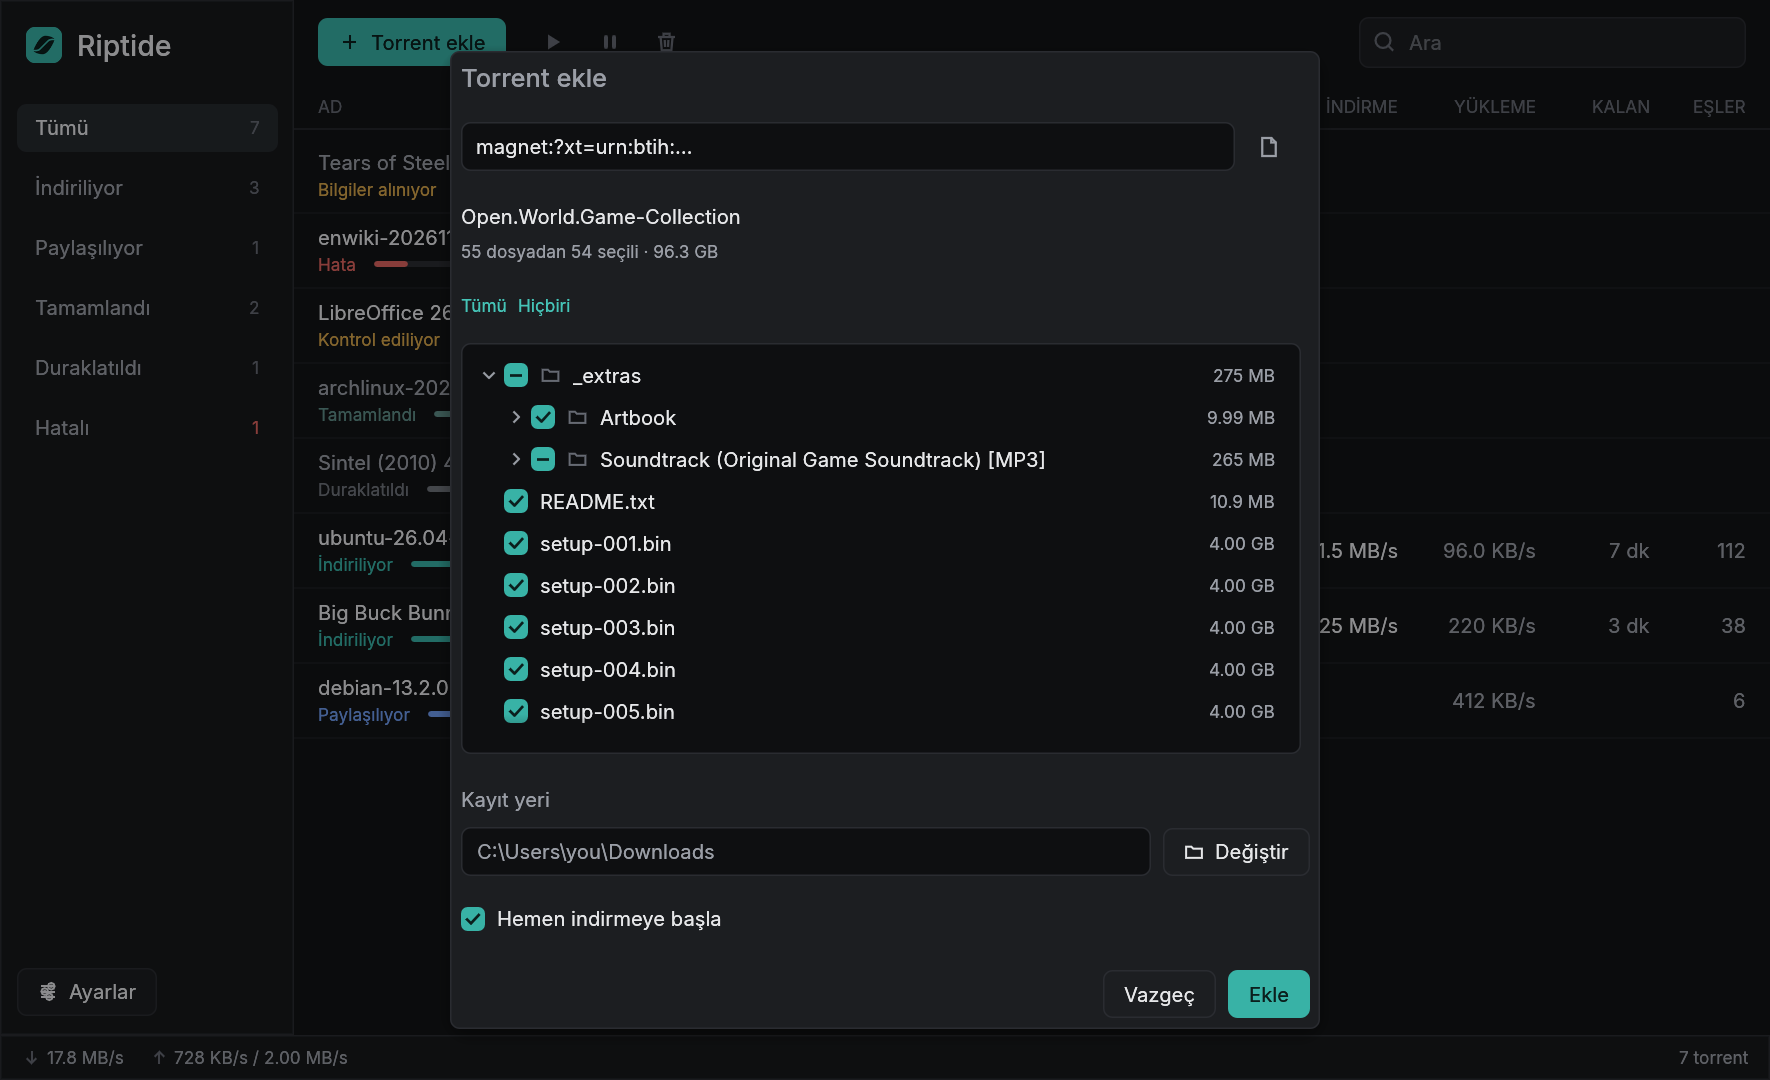
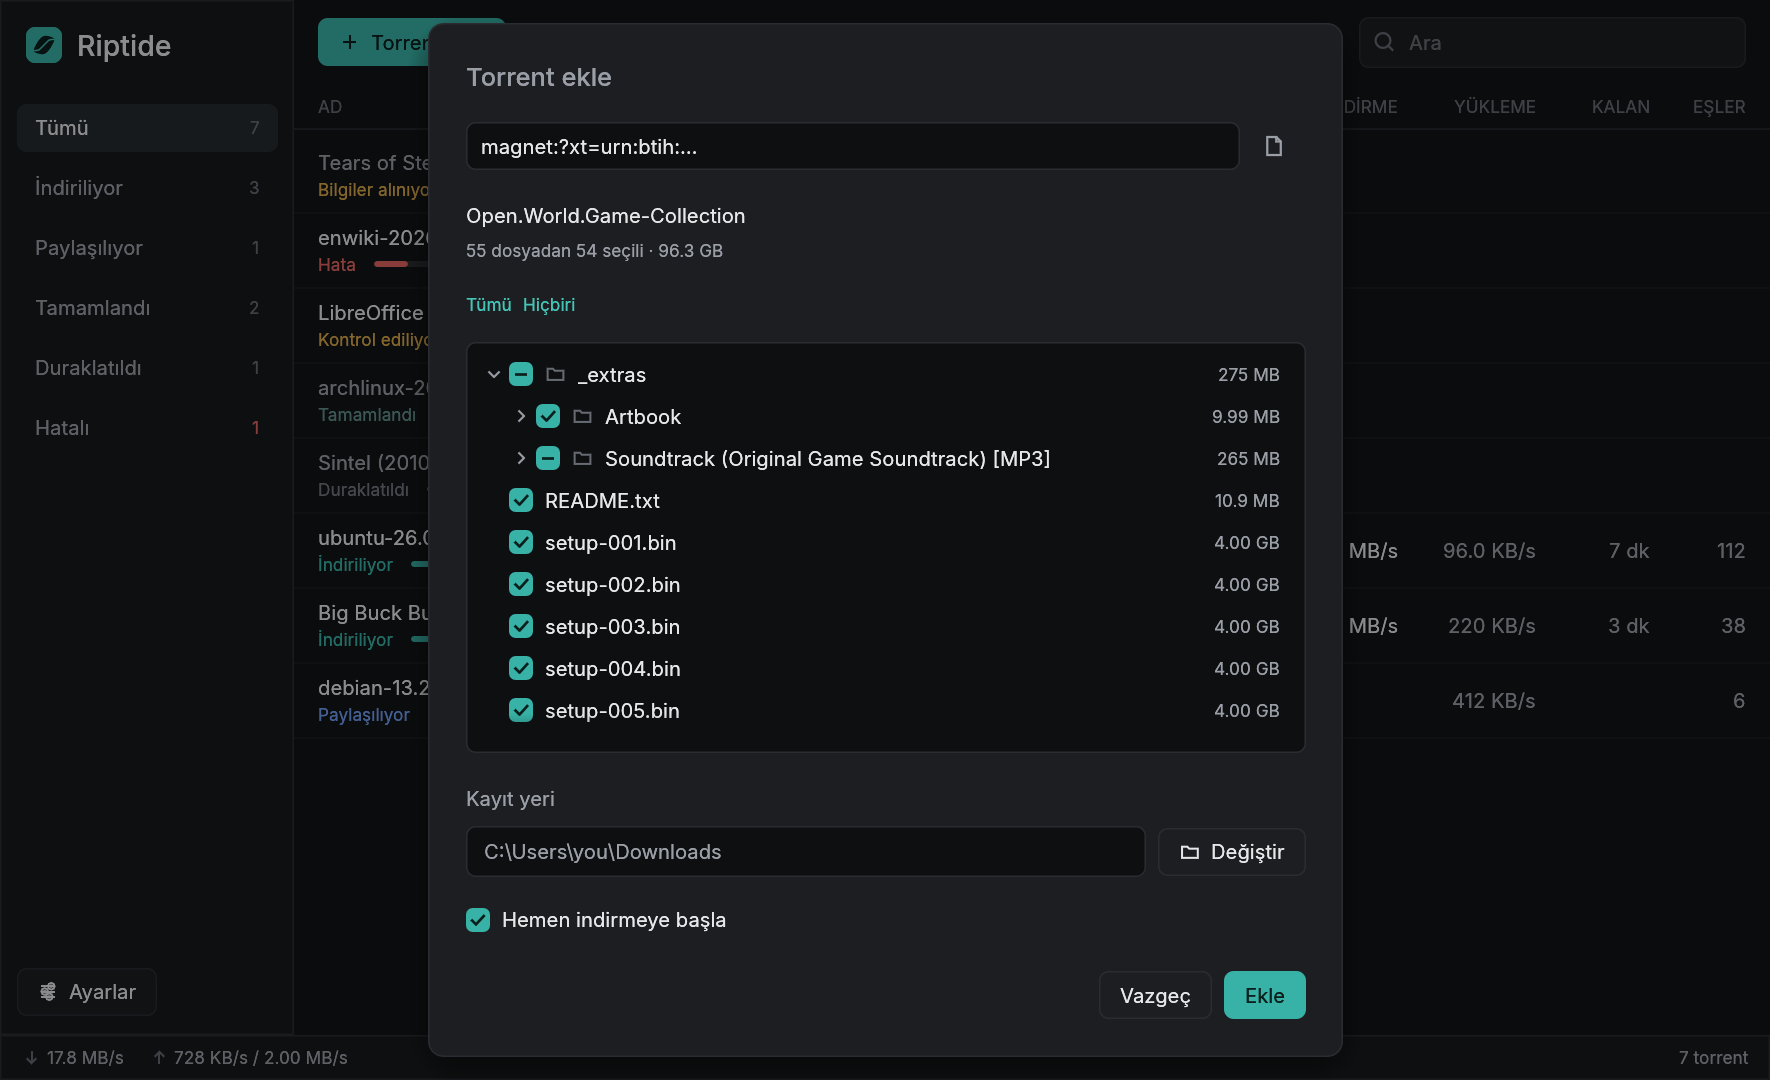
Keep dialogs compact
The button row at the bottom of each dialog used a right-to-left
layout that claimed all remaining height, so an empty Add dialog
stretched to the bottom of the window with its buttons floating in
the middle. Footers now have a fixed height (widgets::footer).

- Dialogs share one frame with 24 px padding (widgets::modal).
- The save path box fills the row up to the Change button and lines
  up with the input above it; it used to overflow the dialog.
- A disabled primary button keeps a border so it still reads as a
  button.
- Screenshot tests cover the empty Add dialog and the Remove dialog.

Bump version to 0.1.2.

diff --git a/src/ui/widgets.rs b/src/ui/widgets.rs
@@ -77,11 +77,17 @@ pub fn button_enabled(
         let pressed = enabled && resp.is_pointer_button_down_on();
         let (fill, stroke) = if primary {
             let fill = match (enabled, hovered) {
-                (false, _) => theme::SURFACE,
+                (false, _) => theme::SURFACE_HOVER,
                 (true, true) => theme::ACCENT_HOVER,
                 (true, false) => theme::ACCENT,
             };
-            (fill, Stroke::NONE)
+            // A disabled primary button still reads as a button, just inert.
+            let stroke = if enabled {
+                Stroke::NONE
+            } else {
+                Stroke::new(1.0, theme::BORDER)
+            };
+            (fill, stroke)
         } else {
             let fill = if pressed {
                 theme::SURFACE_ACTIVE
@@ -227,4 +233,52 @@ pub fn paint_check(painter: &egui::Painter, b: egui::Rect, state: Check) {
             );
         }
     }
+}
+
+/// The right-aligned button row at the bottom of a dialog. Its height is fixed,
+/// so a dialog with little content stays compact instead of stretching.
+pub fn footer<R>(ui: &mut Ui, add: impl FnOnce(&mut Ui) -> R) -> R {
+    ui.allocate_ui_with_layout(
+        vec2(ui.available_width(), 32.0),
+        egui::Layout::right_to_left(egui::Align::Center),
+        add,
+    )
+    .inner
+}
+
+/// A modal dialog with the app's padding and surface.
+pub fn modal(ctx: &egui::Context, id: &str) -> egui::Modal {
+    egui::Modal::new(egui::Id::unique(id)).frame(
+        egui::Frame::new()
+            .fill(theme::SURFACE)
+            .stroke(Stroke::new(1.0, theme::BORDER))
+            .corner_radius(10)
+            .inner_margin(egui::Margin::same(24))
+            .shadow(ctx.global_style().visuals.window_shadow),
+    )
+}
+
+/// A read-only path field that fills the remaining width of a row.
+pub fn path_box(ui: &mut Ui, path: &std::path::Path) {
+    let height = 34.0;
+    let (rect, resp) = ui.allocate_exact_size(vec2(ui.available_width(), height), Sense::hover());
+    let painter = ui.painter_at(rect);
+    painter.rect(
+        rect,
+        theme::RADIUS,
+        theme::INPUT_BG,
+        Stroke::new(1.0, theme::BORDER),
+        StrokeKind::Inside,
+    );
+    let text = path.display().to_string();
+    let font = egui::TextStyle::Body.resolve(ui.style());
+    let mut job = egui::text::LayoutJob::simple_singleline(text.clone(), font, theme::TEXT_DIM);
+    job.wrap = egui::text::TextWrapping::truncate_at_width(rect.width() - 24.0);
+    let galley = ui.fonts_mut(|f| f.layout_job(job));
+    painter.galley(
+        egui::pos2(rect.left() + 12.0, rect.center().y - galley.size().y / 2.0),
+        galley,
+        theme::TEXT_DIM,
+    );
+    resp.on_hover_text(text);
 }

diff --git a/src/ui/add_dialog.rs b/src/ui/add_dialog.rs
@@ -147,7 +147,7 @@ impl App {
         let mut close = false;
         let mut submit = false;
 
-        let modal = egui::Modal::new(egui::Id::unique("add")).show(ctx, |ui| {
+        let modal = widgets::modal(ctx, "add").show(ctx, |ui| {
             ui.set_width(560.0);
             ui.heading(s.add_torrent);
             ui.add_space(14.0);
@@ -207,36 +207,26 @@ impl App {
             ui.add_space(16.0);
             widgets::section_title(ui, s.save_to);
             ui.add_space(4.0);
-            ui.horizontal(|ui| {
-                let frame = egui::Frame::new()
-                    .fill(theme::INPUT_BG)
-                    .stroke(egui::Stroke::new(1.0, theme::BORDER))
-                    .corner_radius(theme::RADIUS)
-                    .inner_margin(egui::Margin::symmetric(10, 7));
-                frame.show(ui, |ui| {
-                    ui.set_width(ui.available_width() - 100.0);
-                    ui.add(
-                        egui::Label::new(
-                            RichText::new(dialog.folder.display().to_string())
-                                .color(theme::TEXT_DIM),
-                        )
-                        .truncate(),
-                    );
-                });
-                if widgets::button(ui, Some(Icon::Folder), s.change, false).clicked()
-                    && let Some(dir) = rfd::FileDialog::new()
-                        .set_directory(&dialog.folder)
-                        .pick_folder()
-                {
-                    dialog.folder = dir;
-                }
-            });
+            ui.allocate_ui_with_layout(
+                vec2(ui.available_width(), 34.0),
+                egui::Layout::right_to_left(egui::Align::Center),
+                |ui| {
+                    if widgets::button(ui, Some(Icon::Folder), s.change, false).clicked()
+                        && let Some(dir) = rfd::FileDialog::new()
+                            .set_directory(&dialog.folder)
+                            .pick_folder()
+                    {
+                        dialog.folder = dir;
+                    }
+                    widgets::path_box(ui, &dialog.folder);
+                },
+            );
 
             ui.add_space(14.0);
             widgets::checkbox(ui, &mut dialog.start, s.start_now);
 
             ui.add_space(20.0);
-            ui.with_layout(egui::Layout::right_to_left(egui::Align::Center), |ui| {
+            widgets::footer(ui, |ui| {
                 let (count, _) = dialog.selection();
                 let ok = dialog.source.is_some()
                     && (dialog.preview.is_none() || count > 0)

diff --git a/src/ui/settings_view.rs b/src/ui/settings_view.rs
@@ -35,7 +35,7 @@ impl App {
 
         // Leave room for the title and buttons; the sections scroll if needed.
         let max_height = (ctx.content_rect().height() - 200.0).max(200.0);
-        let modal = egui::Modal::new(egui::Id::unique("settings")).show(ctx, |ui| {
+        let modal = widgets::modal(ctx, "settings").show(ctx, |ui| {
             ui.set_width(520.0);
             ui.heading(s.settings);
             ui.add_space(18.0);
@@ -138,7 +138,7 @@ impl App {
                     });
                 });
             ui.add_space(10.0);
-            ui.with_layout(egui::Layout::right_to_left(egui::Align::Center), |ui| {
+            widgets::footer(ui, |ui| {
                 if widgets::button(ui, None, s.save, true).clicked() {
                     save = true;
                 }

diff --git a/src/ui/mod.rs b/src/ui/mod.rs
@@ -687,7 +687,7 @@ impl App {
         };
         let mut close = false;
         let mut confirm = false;
-        let modal = egui::Modal::new(egui::Id::unique("remove")).show(ctx, |ui| {
+        let modal = widgets::modal(ctx, "remove").show(ctx, |ui| {
             ui.set_width(380.0);
             ui.heading(s.remove_title);
             ui.add_space(10.0);
@@ -695,7 +695,7 @@ impl App {
             ui.add_space(14.0);
             widgets::checkbox(ui, &mut dialog.delete_files, s.also_delete_files);
             ui.add_space(20.0);
-            ui.with_layout(egui::Layout::right_to_left(egui::Align::Center), |ui| {
+            widgets::footer(ui, |ui| {
                 let label = if dialog.delete_files {
                     s.remove_with_files
                 } else {

diff --git a/src/ui/demo.rs b/src/ui/demo.rs
@@ -290,6 +290,13 @@ fn screenshots() {
             std::sync::Arc::new(preview),
         ));
     });
+    render("add-empty", Lang::Tr, |app| {
+        app.add_dialog = Some(super::AddDialog::empty(&app.settings));
+    });
+    render("remove", Lang::En, |app| {
+        app.selected = [4].into();
+        app.ask_remove(false);
+    });
     render("settings", Lang::En, |app| {
         app.settings_view = Some(super::SettingsView::new(&app.settings));
     });
